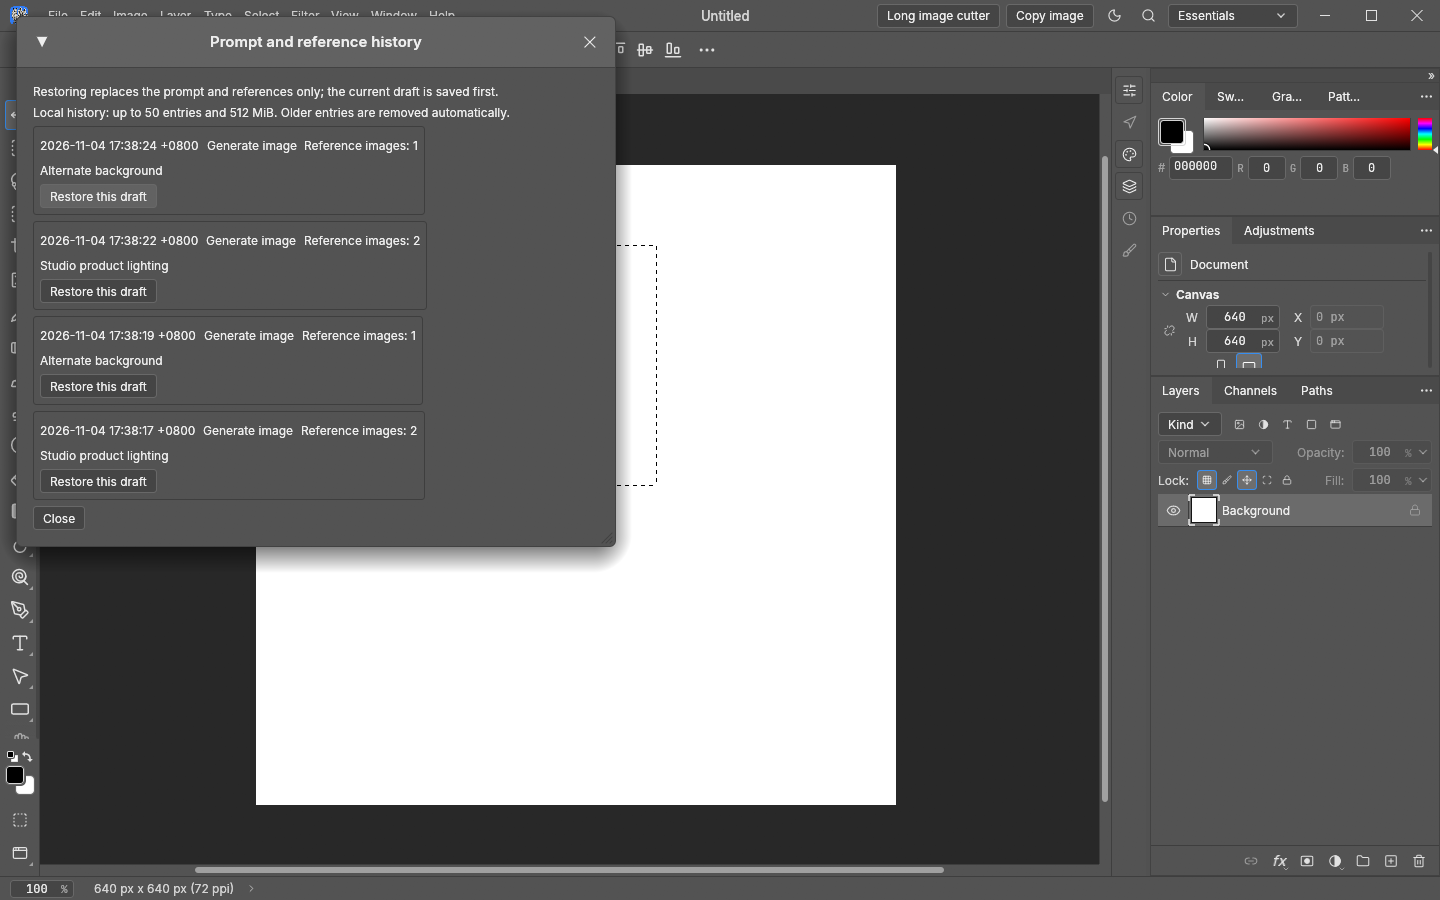
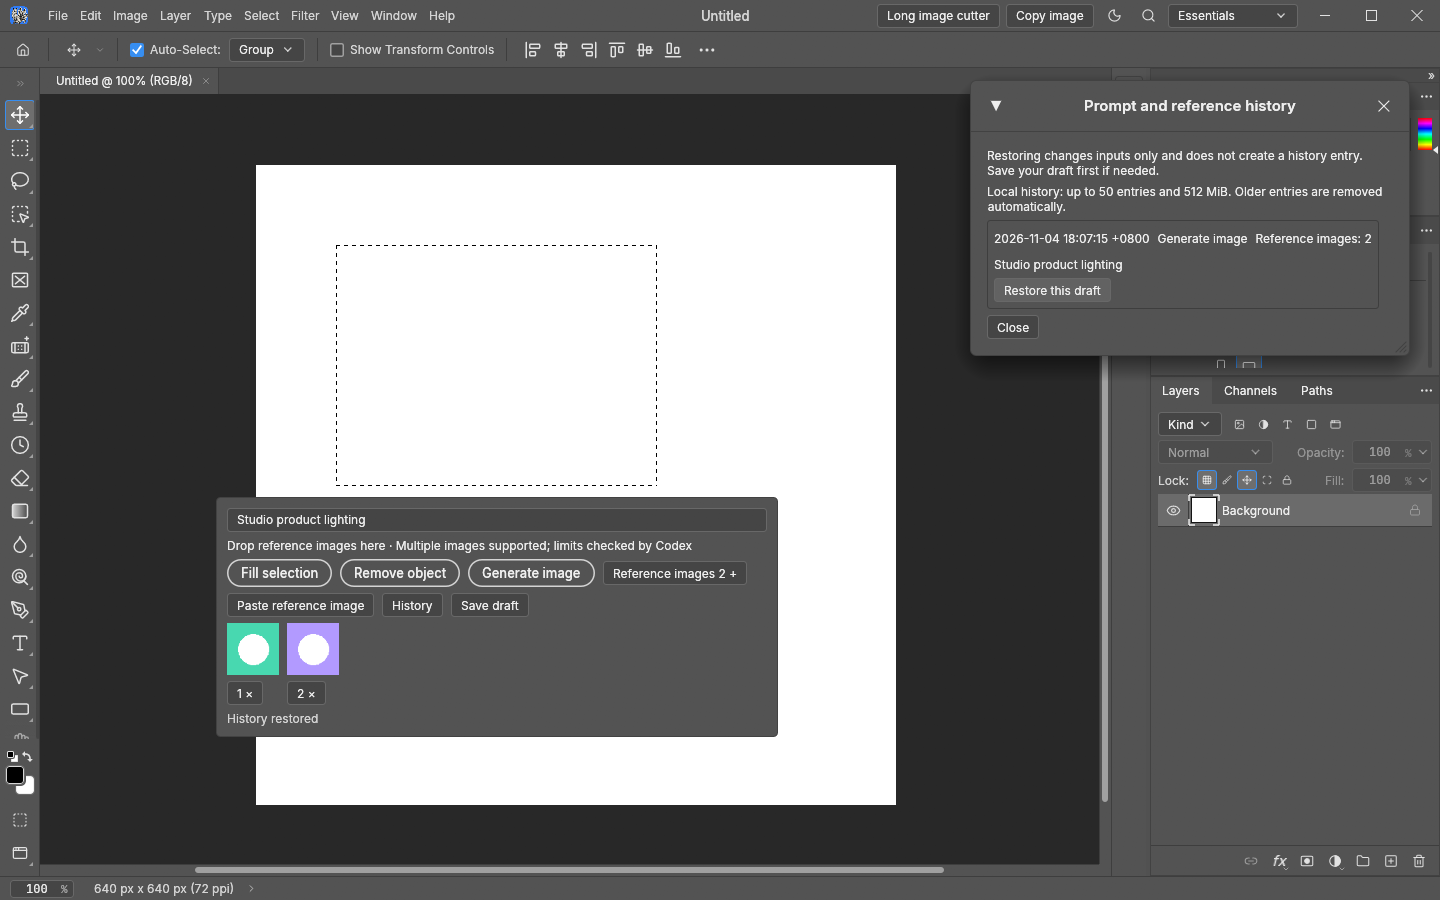
fix: keep composer visible and avoid history growth on restore

diff --git a/photocraft_ai/history.py b/photocraft_ai/history.py
@@ -1,5 +1,8 @@
 """Local prompt/reference snapshots. No canvas commands and no remote requests."""
 import base64
+import hashlib
+from io import BytesIO
+from PIL import Image, ImageOps
 from datetime import datetime, timezone
 import json
 from pathlib import Path
@@ -12,6 +15,19 @@ from .references import save_references, validate_references, MAX_BYTES, MAX_TOT
 
 
 class History:
+    @staticmethod
+    def _fingerprint(prompt, mode, references):
+        digest=hashlib.sha256(json.dumps([prompt,mode],ensure_ascii=False).encode('utf-8'))
+        for item in references:
+            data=base64.b64decode(item['data'],validate=True)
+            with Image.open(BytesIO(data)) as image:
+                if image.width*image.height>100_000_000:
+                    raise ValueError('History reference exceeds the pixel guard')
+                upright=ImageOps.exif_transpose(image).convert('RGBA')
+                digest.update(json.dumps([item['name'],upright.size],ensure_ascii=False).encode('utf-8'))
+                digest.update(hashlib.sha256(upright.tobytes()).digest())
+        return digest.hexdigest()
+
     def __init__(self, root, max_entries=50, max_bytes=512*1024*1024):
         self.root = Path(root)
         self.max_entries, self.max_bytes = max_entries, max_bytes
@@ -63,6 +79,20 @@ class History:
             if not isinstance(prompt, str) or len(prompt)>4000 or mode not in ('fill','remove','generate'):
                 raise ValueError('Invalid history draft')
             references = validate_references(request.get('references', []))
+            fingerprint=self._fingerprint(prompt,mode,references)
+            for previous in self._records():
+                if (previous['prompt']!=prompt or previous['mode']!=mode
+                    or previous['names']!=[item['name'] for item in references]):
+                    continue
+                try:
+                    old=previous.get('fingerprint')
+                    if old is None:
+                        restored=self.restore(previous['id'])
+                        old=self._fingerprint(restored['prompt'],restored['mode'],restored['references'])
+                    if old==fingerprint:
+                        return previous['id']
+                except (OSError,ValueError,KeyError,TypeError):
+                    continue
             self.root.mkdir(parents=True, exist_ok=True)
             identifier = uuid.uuid4().hex
             folder = self._folder(identifier)
@@ -73,7 +103,7 @@ class History:
                 if size>MAX_TOTAL or any(p.stat().st_size>MAX_BYTES for p in paths):
                     raise ValueError('History references exceed local resource limits')
                 meta = {'id':identifier,'created':datetime.now(timezone.utc).isoformat(timespec='microseconds'),
-                        'prompt':prompt,'mode':mode,'names':names,'bytes':size}
+                        'prompt':prompt,'mode':mode,'names':names,'bytes':size,'fingerprint':fingerprint}
                 temporary = folder/'snapshot.tmp'
                 encoded=json.dumps(meta,ensure_ascii=False).encode('utf-8')
                 if len(encoded)>32768:

diff --git a/tests/test_history.py b/tests/test_history.py
@@ -75,7 +75,7 @@ class HistoryTests(unittest.TestCase):
             self.assertFalse(worker.snapshot()['error']);self.assertEqual(worker.history.list()[0]['prompt'],'edit prompt')
             service.apply.assert_called_once()
 
-    def test_http_restore_saves_current_draft_and_keeps_authentication(self):
+    def test_http_restore_does_not_save_drafts_and_keeps_authentication(self):
         with tempfile.TemporaryDirectory() as directory:
             worker=NativeWorker(None);worker.history=History(directory)
             identifier=worker.history.save({'prompt':'original','references':[picture()]})
@@ -88,11 +88,29 @@ class HistoryTests(unittest.TestCase):
                 request=Request(url+'/history/restore',data=data,headers={'Authorization':'Bearer token','Content-Type':'application/json'})
                 with opener.open(request) as response:restored=json.load(response)
                 self.assertEqual(restored['prompt'],'original')
-                self.assertEqual(worker.history.list()[0]['prompt'],'current draft')
+                self.assertEqual(worker.history.list()[0]['prompt'],'original')
+                self.assertEqual(len(worker.history.list()),1)
+                with opener.open(request) as response:json.load(response)
+                self.assertEqual(len(worker.history.list()),1)
                 self.assertEqual(len(restored['references']),1)
                 with self.assertRaises(Exception) as raised:opener.open(Request(url+'/history/list',data=b'{}'))
                 self.assertEqual(raised.exception.code,401)
             finally:server.shutdown();server.server_close();thread.join()
 
+
+    def test_identical_snapshots_are_reused_without_extra_files(self):
+        with tempfile.TemporaryDirectory() as directory:
+            h=History(directory)
+            request={'prompt':'same','mode':'generate','references':[picture()]}
+            first=h.save(request)
+            self.assertEqual(h.save(request),first)
+            meta_path=Path(directory)/first/'snapshot.json'
+            meta=json.loads(meta_path.read_text(encoding='utf-8'));meta.pop('fingerprint')
+            meta_path.write_text(json.dumps(meta),encoding='utf-8')
+            self.assertEqual(History(directory).save(request),first)
+            self.assertEqual(len(h.list()),1)
+            self.assertEqual(len(list(Path(directory).iterdir())),1)
+            changed={**request,'prompt':'changed'}
+            self.assertNotEqual(h.save(changed),first)
 
 if __name__=='__main__':unittest.main()

diff --git a/photocraft_ai/native.py b/photocraft_ai/native.py
@@ -143,11 +143,6 @@ def handler(worker: NativeWorker, token: str):
                     return
                 elif self.path == '/history/restore':
                     restored=worker.history.restore(request.get('id'))
-                    draft=request.get('draft')
-                    if draft is not None and not isinstance(draft,dict):
-                        raise ValueError('Invalid history draft')
-                    if draft and (draft.get('prompt') or draft.get('references')):
-                        worker.history.save(draft)
                     self.respond(200, {**restored, 'entries':worker.history.list()})
                     return
                 elif self.path == '/generate':

diff --git a/docs/usage-en.md b/docs/usage-en.md
@@ -40,7 +40,7 @@ The geometric demo artwork was made for this project. Screenshots contain no use
 ![English: prompt and reference history](../examples/usage/en/history.png)
 
 - From this update onward, successfully prepared generation tasks save their prompt, operation and references automatically. Click **Save draft** to keep inputs before generating.
-- Open **History** and choose **Restore this draft**. The current unsent draft is saved first; the selected prompt and ordered reference images replace the composer inputs. Close the history window to continue editing or generate again.
+- Open **History** and choose **Restore this draft**. The selected prompt and ordered reference images replace the composer inputs without creating a record. The composer remains visible and editable. Use Save draft first if you want to keep your current inputs.
 - Restoring does not change the canvas, selection or layers, and does not trigger generation.
 - Records persist under `runtime/native-history/` across restarts. Up to 50 entries and 512 MiB are retained, with oldest entries removed when over budget. Older job directories are not imported automatically.
 - Prompts and reference snapshots remain local. References are sent only when you submit a new generation request.

diff --git a/docs/usage-zh.md b/docs/usage-zh.md
@@ -40,7 +40,7 @@
 ![中文：提示词与参考图历史记录](../examples/usage/zh-hans/history.png)
 
 - 本次更新起，生成任务准备成功后会自动保存当次提示词、操作类型和参考图；尚未生成的内容可点击“保存草稿”。
-- 点击 AI 工具栏“历史记录”，选择记录并点击“恢复此记录”。当前未提交草稿会先保存，再恢复选中记录的完整提示词和参考图顺序。关闭历史窗口后继续编辑或生成。
+- 点击 AI 工具栏“历史记录”，选择记录并点击“恢复此记录”。恢复选中记录的完整提示词和参考图顺序，不新增记录。修改工具栏保持可见可编辑；需要保留当前内容时请先点保存草稿。
 - 恢复仅影响输入区，不替换画布、选区或图层，也不会自动调用生图。
 - 记录保存在安装目录 `runtime/native-history/`，重启后仍可恢复。保留最近 50 条，记录合计最多 512 MiB，超限自动删除最旧记录；不自动导入更新前的旧任务目录。
 - 记录中的图片和提示词只保存在本机；只有再次点击生成时，参考图才随新请求发送。

diff --git a/RELEASE_NOTES.md b/RELEASE_NOTES.md
@@ -1,8 +1,8 @@
 # Unreleased / 统一开发版新增
 
-- 提示词与参考图历史：自动记录生成输入、保存草稿、恢复前备份当前输入；仅恢复输入区，跨重启保留，最近 50 条且合计最多 512 MiB。
+- 提示词与参考图历史：自动记录生成输入、保存草稿、恢复不新增记录，相同内容去重；仅恢复输入区，跨重启保留，最近 50 条且合计最多 512 MiB。
 - 剪贴板参考图：按钮或提示词中 Ctrl+V 追加图片，兼容 Windows DIB/DIBV5，保留文字与画布粘贴。
-- Prompt/reference history with draft saving and restore, preserving the current draft before rollback; local persistence with 50-entry / 512 MiB retention. Clipboard references support Windows DIB/DIBV5 while preserving text/canvas paste.
+- Prompt/reference history with draft saving and restore, read-only rollback and duplicate snapshot reuse; local persistence with 50-entry / 512 MiB retention. Clipboard references support Windows DIB/DIBV5 while preserving text/canvas paste.
 
 These features are newer than the published v0.4.0 ZIP. / 这些功能尚不在已发布的 v0.4.0 ZIP 中。
 

diff --git a/VALIDATION.md b/VALIDATION.md
@@ -1,5 +1,12 @@
 # 本机验证记录
 
+## 历史恢复逻辑修正（2026-11-04）
+
+- 打开历史时保留提示词/参考图修改工具栏，历史窗口默认位于右侧，可同时查看和编辑。
+- 恢复接口不再保存当前草稿，不再因反复回滚新增记录。需要保留未提交内容时手动保存草稿。
+- 保存时按提示词、操作类型、参考图顺序/名称和实际 RGBA 像素去重；相同组合复用已有记录，兼容旧记录，无需再次复制图片。
+- Python 62 项测试通过，覆盖重复保存及跨实例去重、反复恢复条数不变和认证要求。中英文实际界面检查保留两个窗口、恢复提示词/参考图且条数不变。
+
 ## 提示词与参考图历史（2026-11-04，统一开发版）
 
 - 生成任务准备成功后自动保存提示词、操作类型与参考图；增加保存草稿、历史列表和恢复。恢复先保存当前草稿，不修改画布、不自动生成；历史保存在 `runtime/native-history/`，跨重启保留，最多 50 条及 512 MiB，超限清理旧记录。
